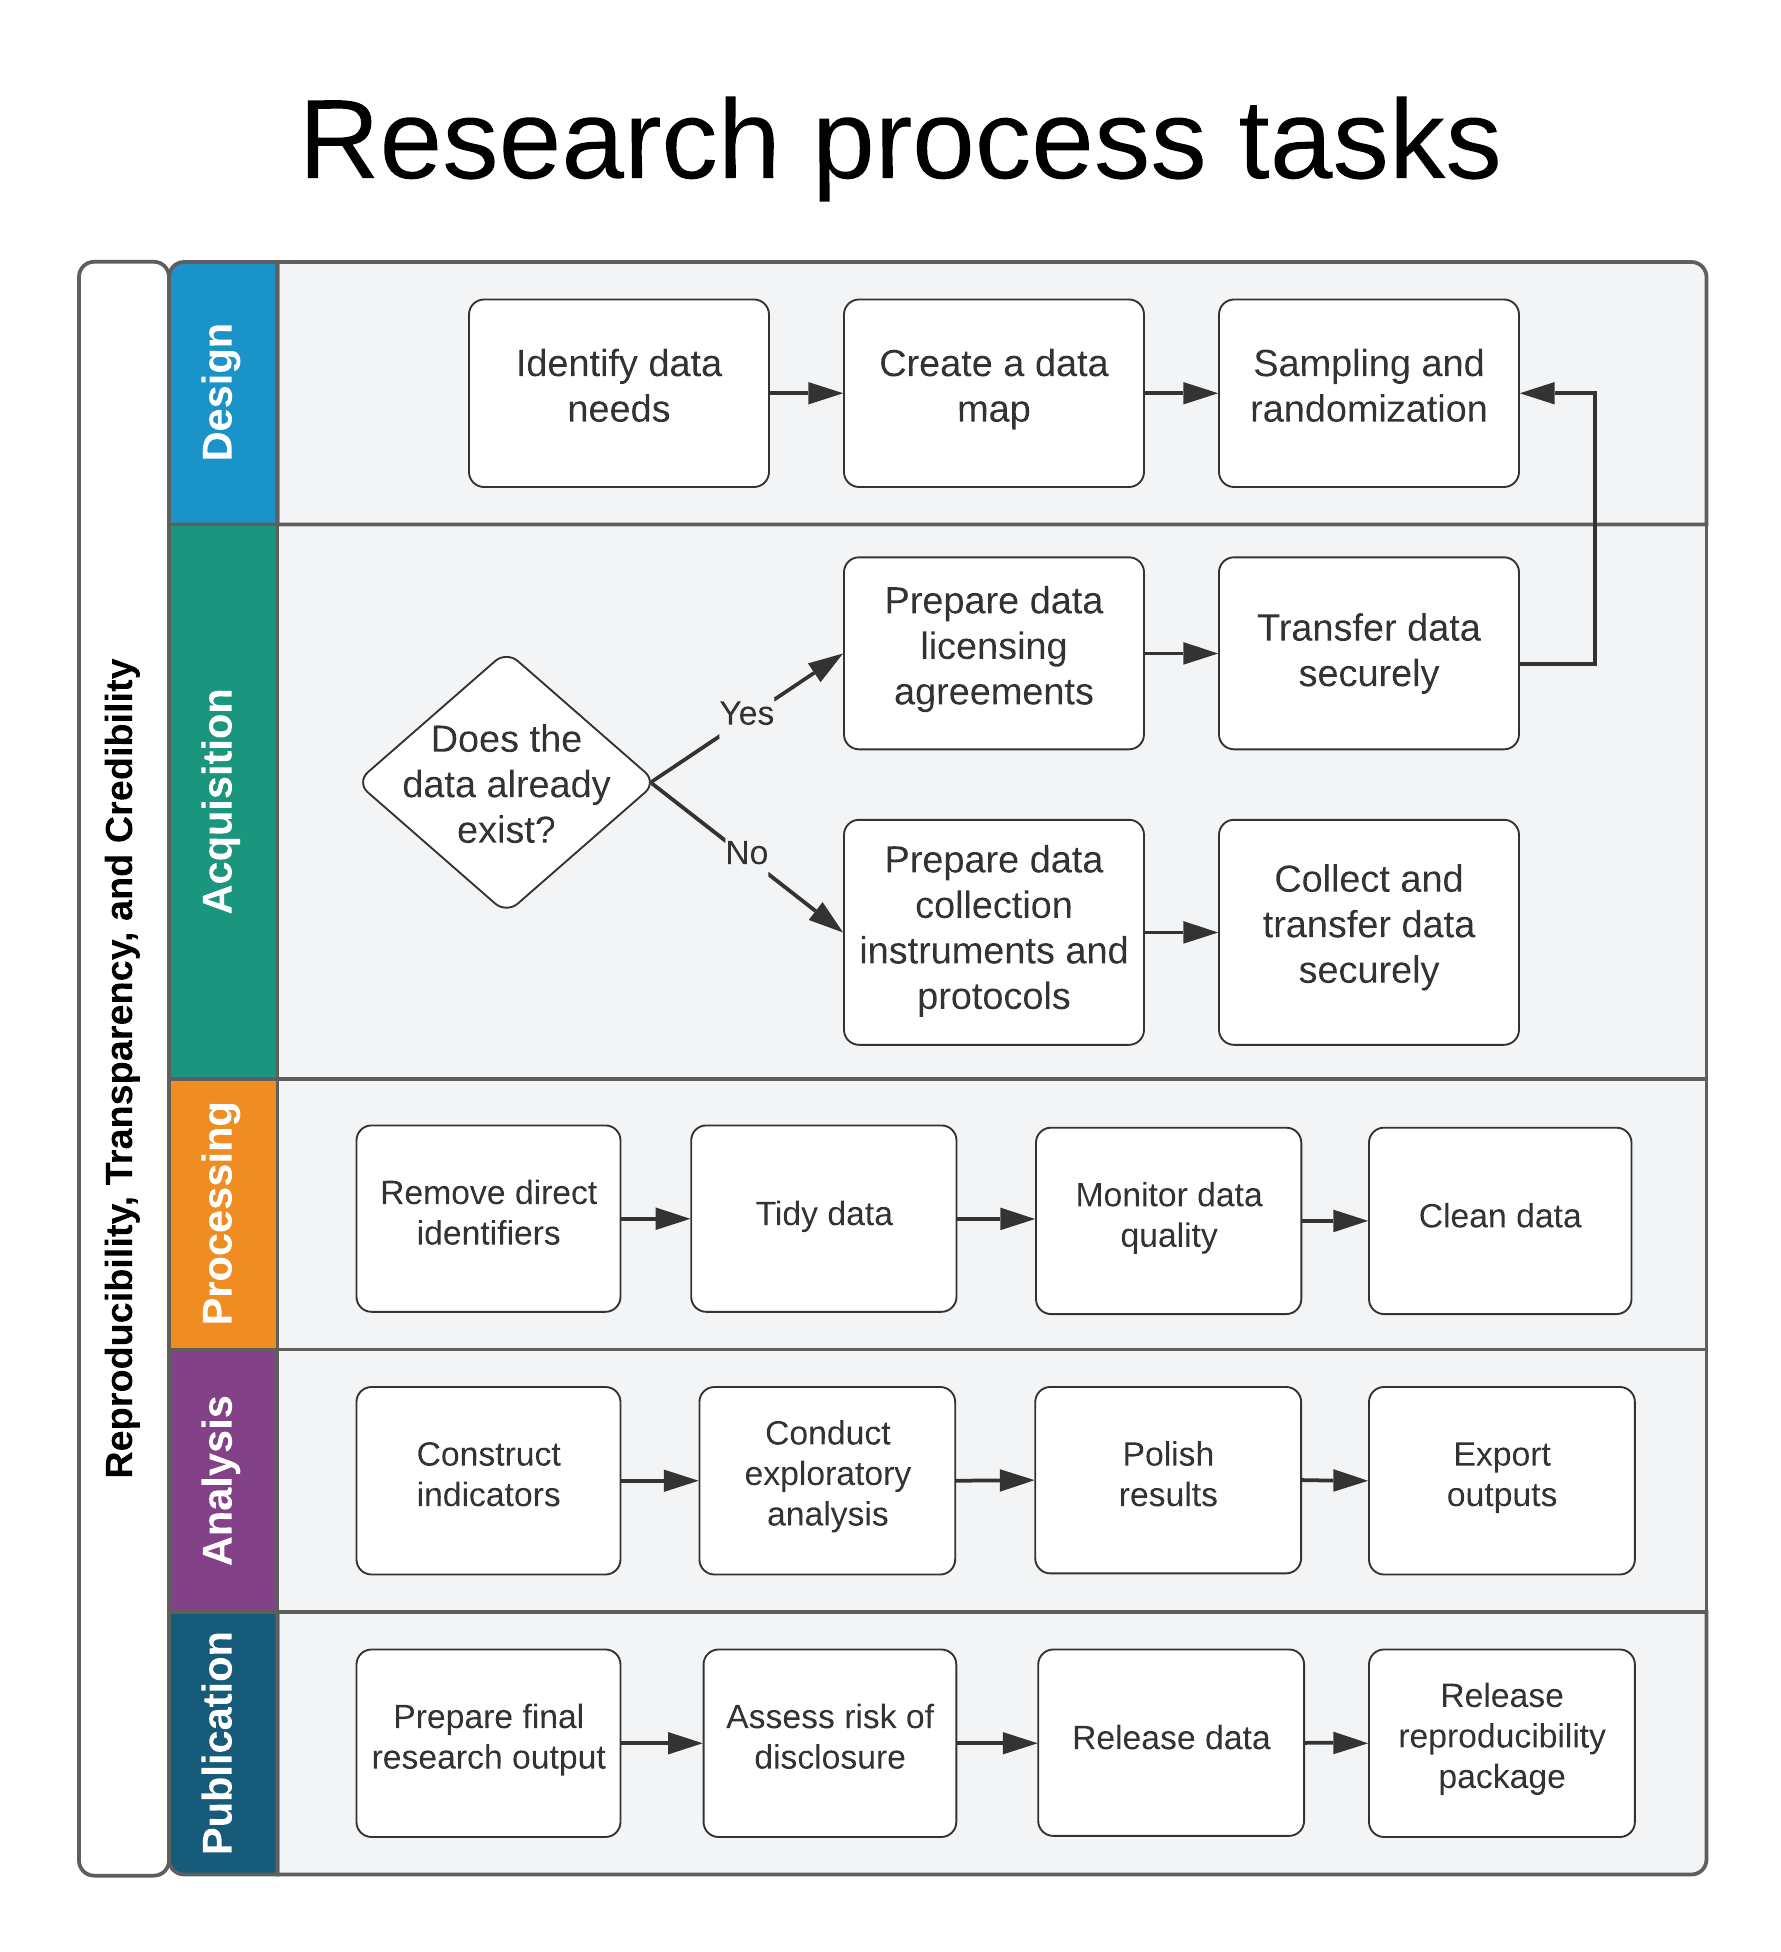
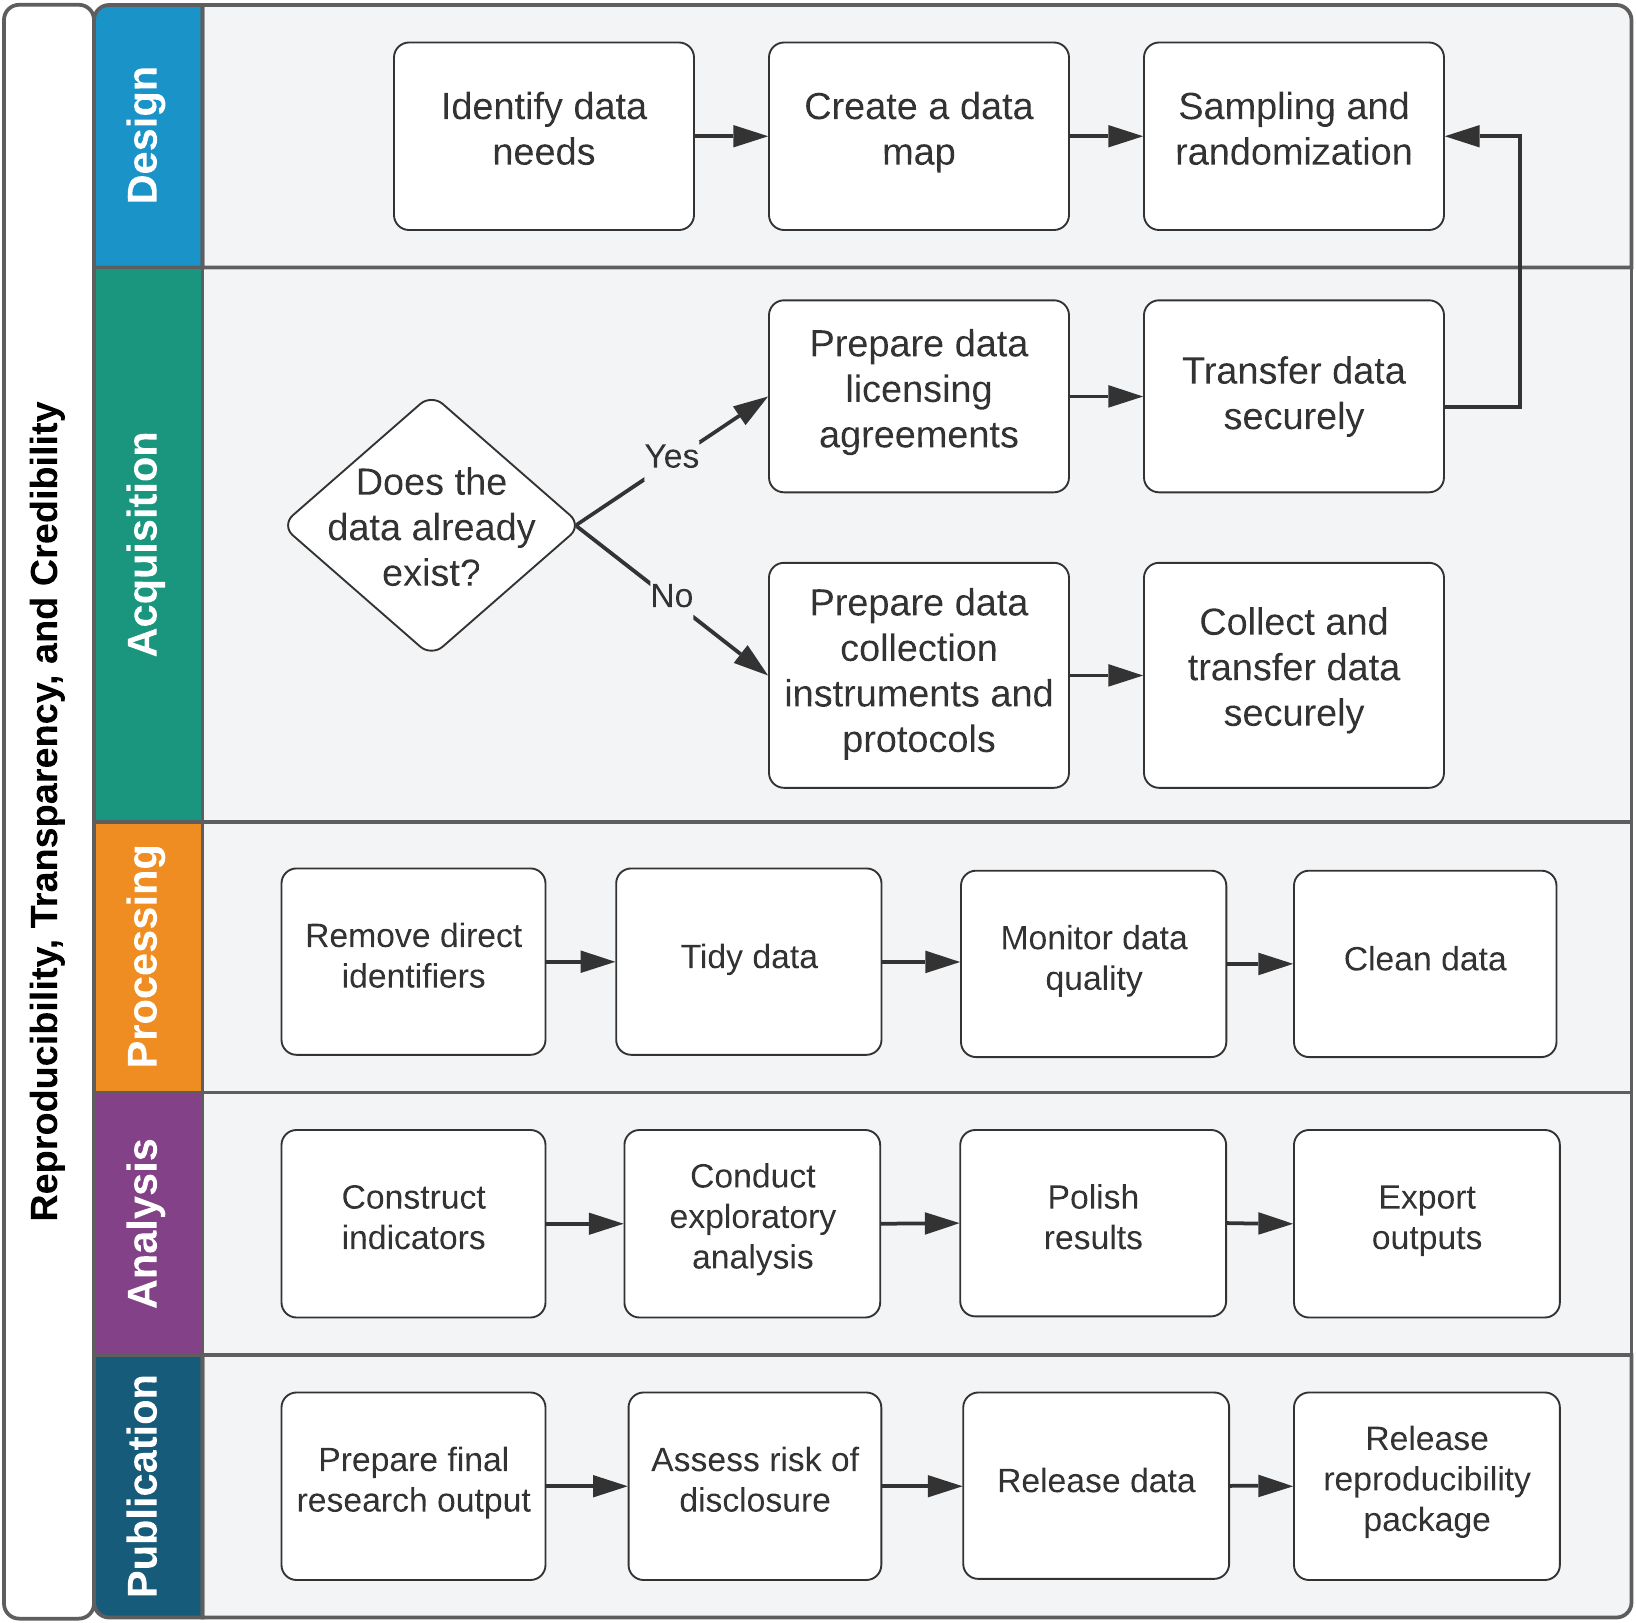
[diagrams] Intro

diff --git a/chapters/0-introduction.tex b/chapters/0-introduction.tex
@@ -156,15 +156,12 @@ functional and informative reproducibility packages
 that contain all the code, data, and meta-information needed
 for others to evaluate and reproduce your work.
 
-\begin{fullwidth}
-\begin{figure}
-	\centering
-	\includegraphics[width=1.25\linewidth]{diagrams/Intro}
-	\caption{}
-	\label{fig:intro}
-\end{figure}
-\end{fullwidth}
-
+Figure \ref{fig:intro} shows a summary of the hands-on data tasks 
+comprising  research data work.
+These are described in chapters 3 to 7.
+Chapters 1 and 2, on the other hand,
+will contextualize why these each of them are important,
+and what you should plan before data work starts.
 After reading each chapter, you should understand
 what tasks your team will be performing,
 where in the data workflow each task falls,
@@ -188,6 +185,15 @@ on how to complete each task, and links to further practical resources.
 For some implementation portions where precise code is particularly important,
 we provide minimal code examples either in the book or on the DIME Wiki.
 All code guidance is software-agnostic, but code examples are provided in Stata.
+
+\begin{fullwidth}
+	\begin{figure}
+		\centering
+		\includegraphics[width=1.5\linewidth]{diagrams/Intro}
+		\caption{\small Research data work tasks}
+		\label{fig:intro}
+	\end{figure}
+\end{fullwidth}
 
 %------------------------------------------------
 \section{Handling original data is a core research task}

diff --git a/auxiliary/preamble.tex b/auxiliary/preamble.tex
@@ -104,6 +104,17 @@
 {}% before the title body
 []% after the title body
 
+%%%%%%%%%%%%%%%%%%%%%%%%%%%
+% Making figures full-widths
+% https://tex.stackexchange.com/questions/262952/tufte-book-captions-under-figure
+ 
+ \makeatletter
+ \renewenvironment{figure}[1][htbp]{%
+ 	\@tufte@orig@float{figure}[#1]%
+ }{%
+ 	\@tufte@orig@endfloat
+ }
+
 %----------------------------------------------------------------------------------------
 %	BOOK META-INFORMATION
 %----------------------------------------------------------------------------------------
